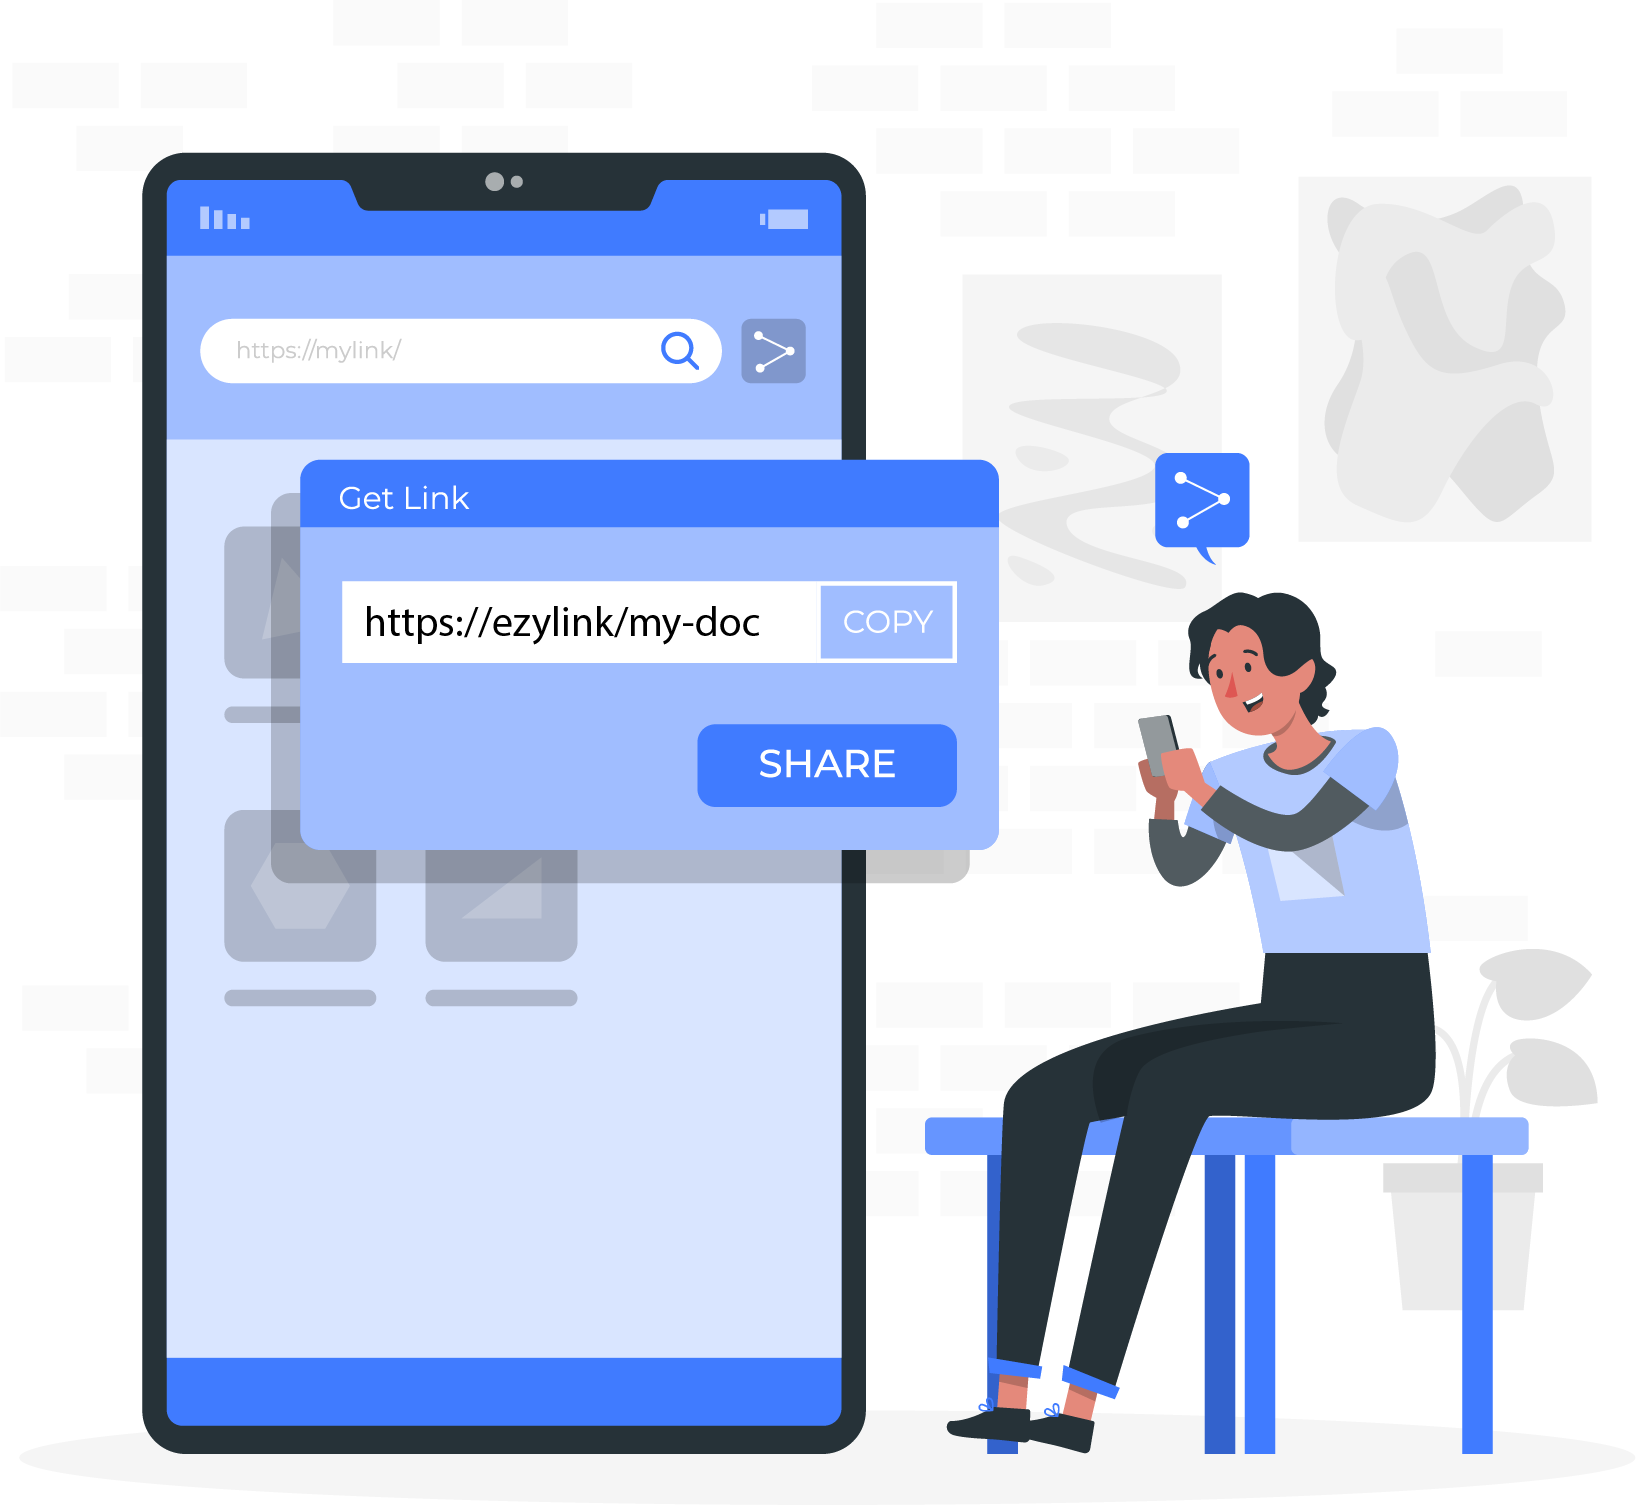
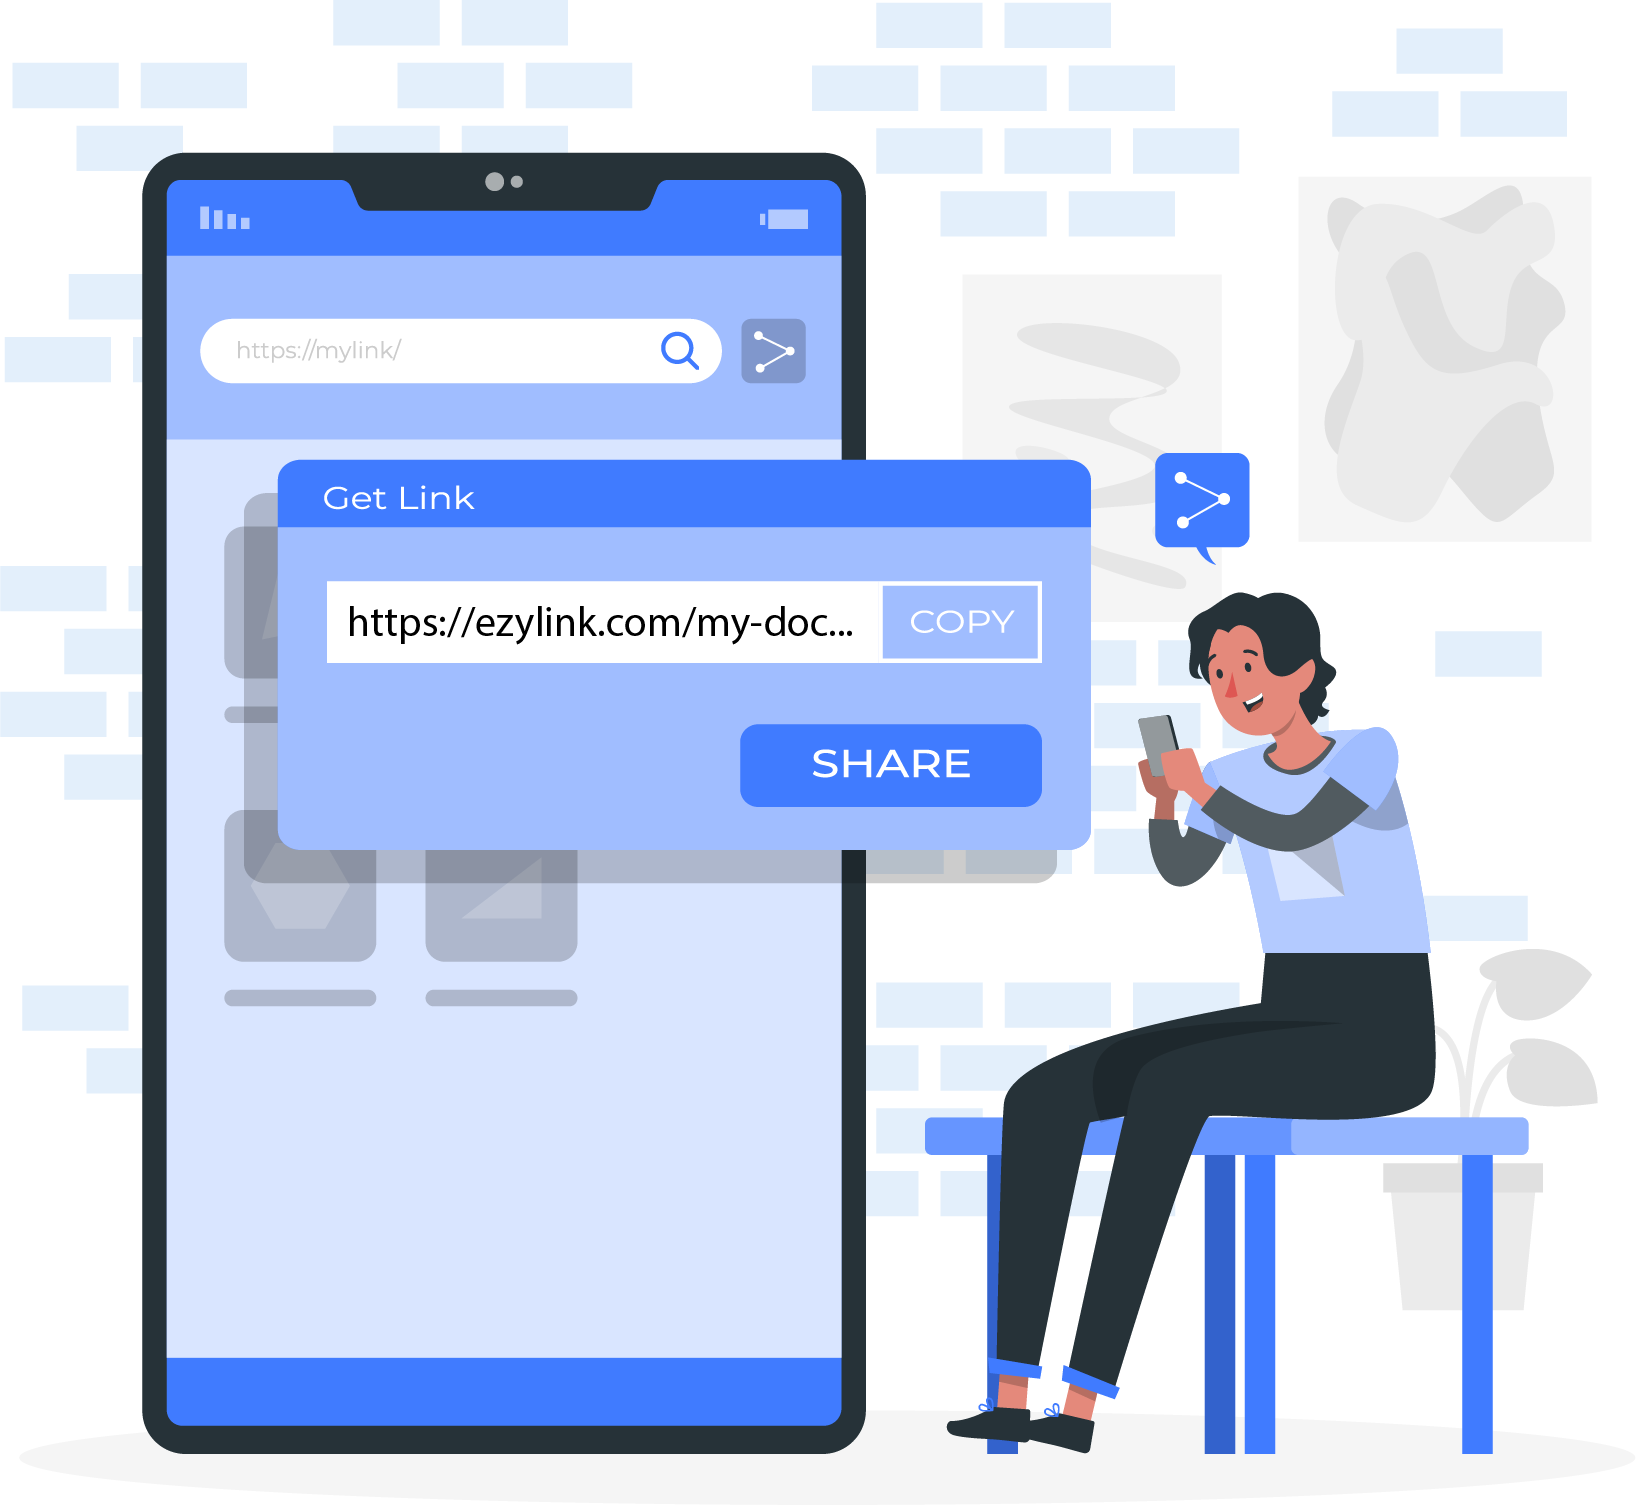
ui update

Changed region(s): [[0.1247, 0.2811, 0.6858, 0.5934]]

diff --git a/client/src/pages/shortUrl/shortUrl.css b/client/src/pages/shortUrl/shortUrl.css
@@ -29,6 +29,9 @@
   font-size: 24px;
   font-weight: 600;
   background: none;
+}
+
+.shortUrl-url a {
   color: #7f7d9c;
 }
 
@@ -59,7 +62,7 @@
   color: #7f7d9c;
 }
 
-.shortUrl-close:hover{
+.shortUrl-close:hover {
   cursor: pointer;
 }
 
@@ -78,12 +81,12 @@
     font-size: 18px;
   }
 
-  .shortUrl-close{
+  .shortUrl-close {
     top: 30px;
     right: 30px;
   }
 
-  .shortUrl-copy{
+  .shortUrl-copy {
     bottom: 160px;
     padding: 5px 10px;
     font-size: 14px;

diff --git a/client/src/pages/url/url.css b/client/src/pages/url/url.css
@@ -14,7 +14,7 @@
 
 .url-illustration {
   display: grid;
-  grid-template-columns:  600px;
+  grid-template-columns: 700px;
   overflow: hidden;
 }
 
@@ -79,7 +79,6 @@
   background: #0276ff;
   color: #e3effb;
 }
-
 
 @media (max-width: 640px) {
   .url-container {
